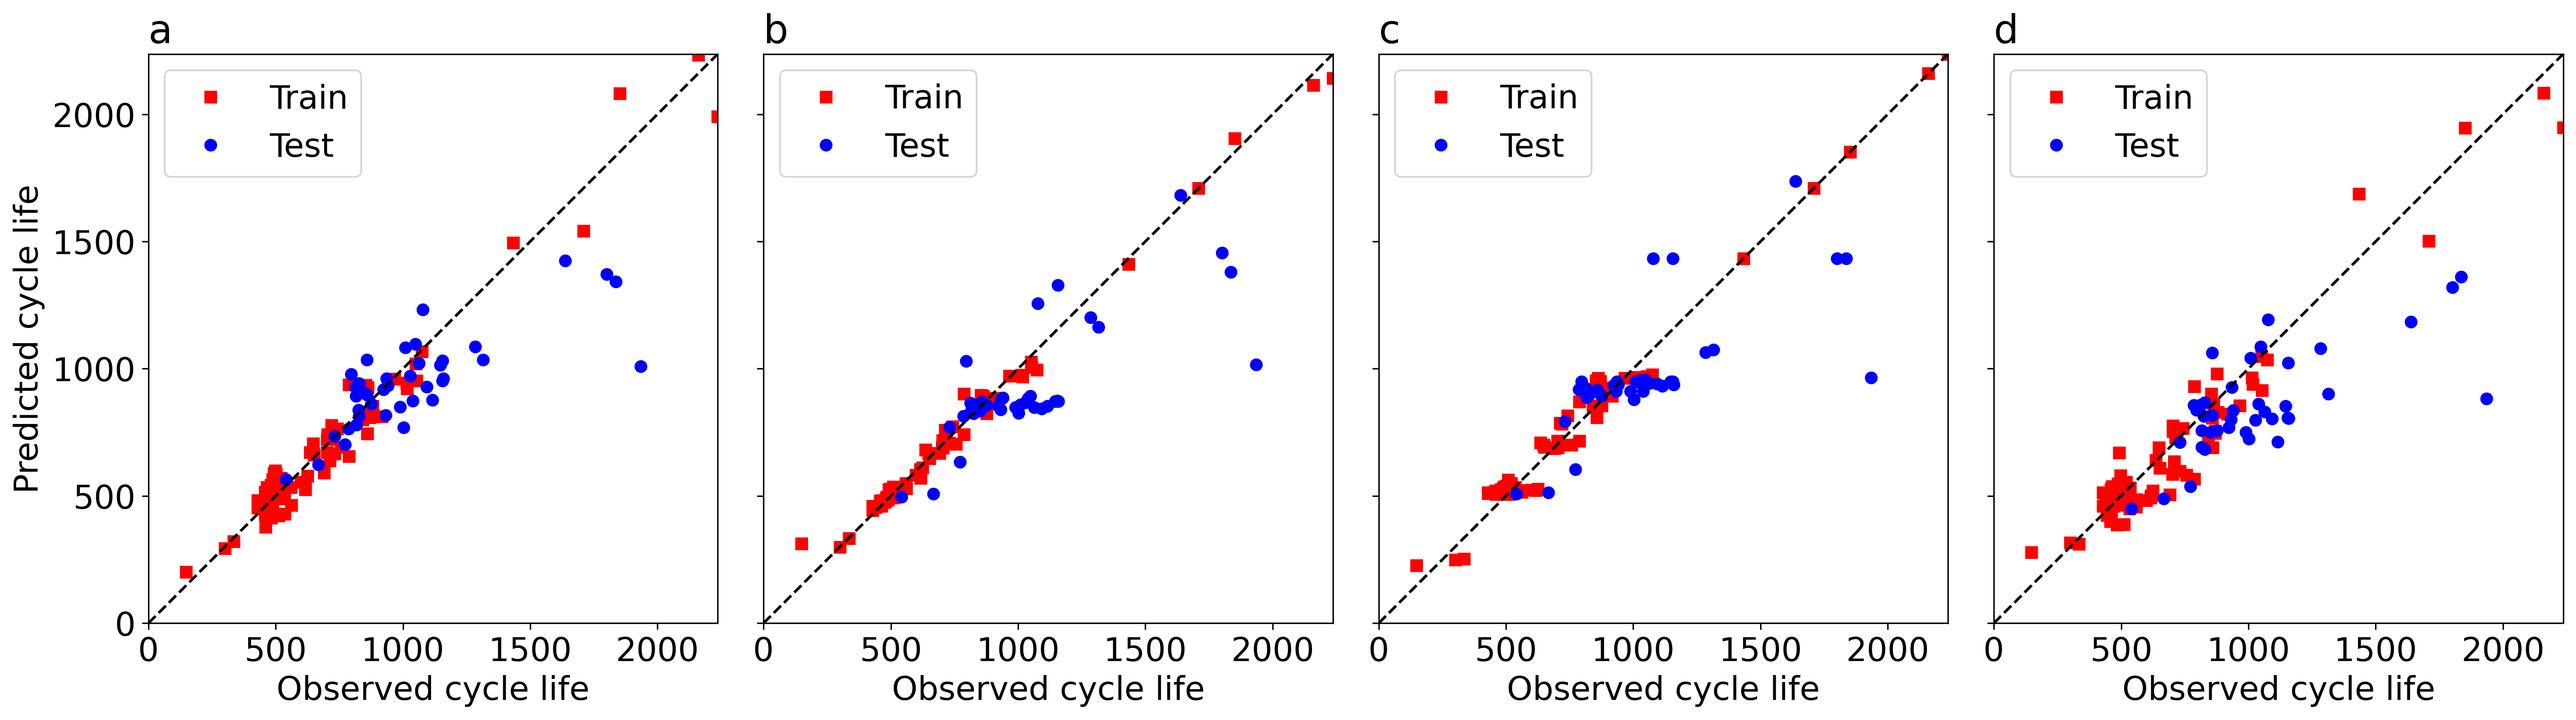
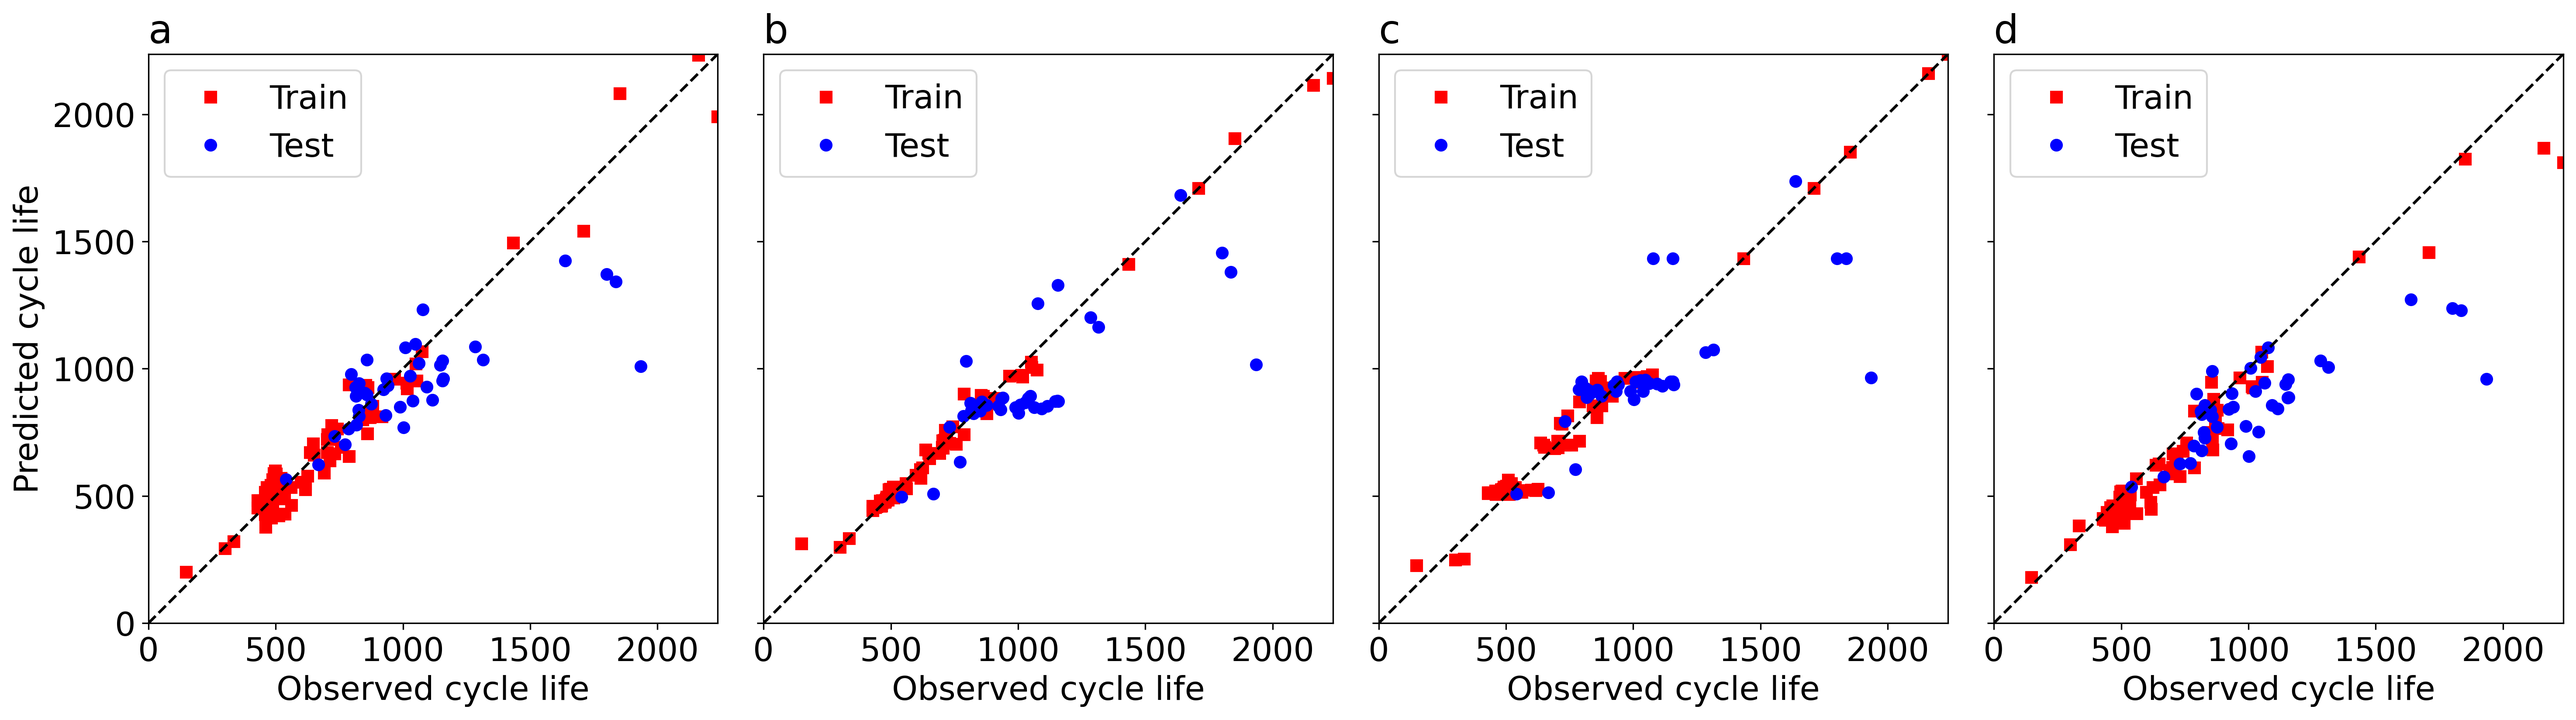
fix auto_plotter now can plot enet right

Changed region(s): [[0.8111, 0.4639, 0.9047, 0.7423], [0.9359, 0.3711, 0.9671, 0.433], [0.7799, 0.7423, 0.8111, 0.7732]]

diff --git a/model/auto_plotter.py b/model/auto_plotter.py
@@ -51,8 +51,13 @@ def load_model_data(model, results_dir, use_log_features, use_all_features, whic
             X_test, y_test, _ = load_dataset(test_path, use_log_features, use_all_features, which_features)
             X_train, y_train, _ = load_dataset(f"training/cycles_2TO{n}_log.csv", use_log_features, use_all_features, which_features)
             m = models_list[i]
-            y_pred_test = m.predict(X_test)
-            y_pred_train = m.predict(X_train)
+            # Predict in log10 space and invert to linear scale
+            y_pred_test_log = m.predict(X_test)
+            y_pred_train_log = m.predict(X_train)
+            # Convert log predictions back to actual cycle lives
+            y_pred_test = 10 ** y_pred_test_log
+            y_pred_train = 10 ** y_pred_train_log
+            # Compute mean percent error on linear scale
             test_mpe[i] = np.mean(np.abs(y_pred_test - y_test) / y_test) * 100
             if n == N_cycles[-1]:
                 predicted_full = y_pred_test
